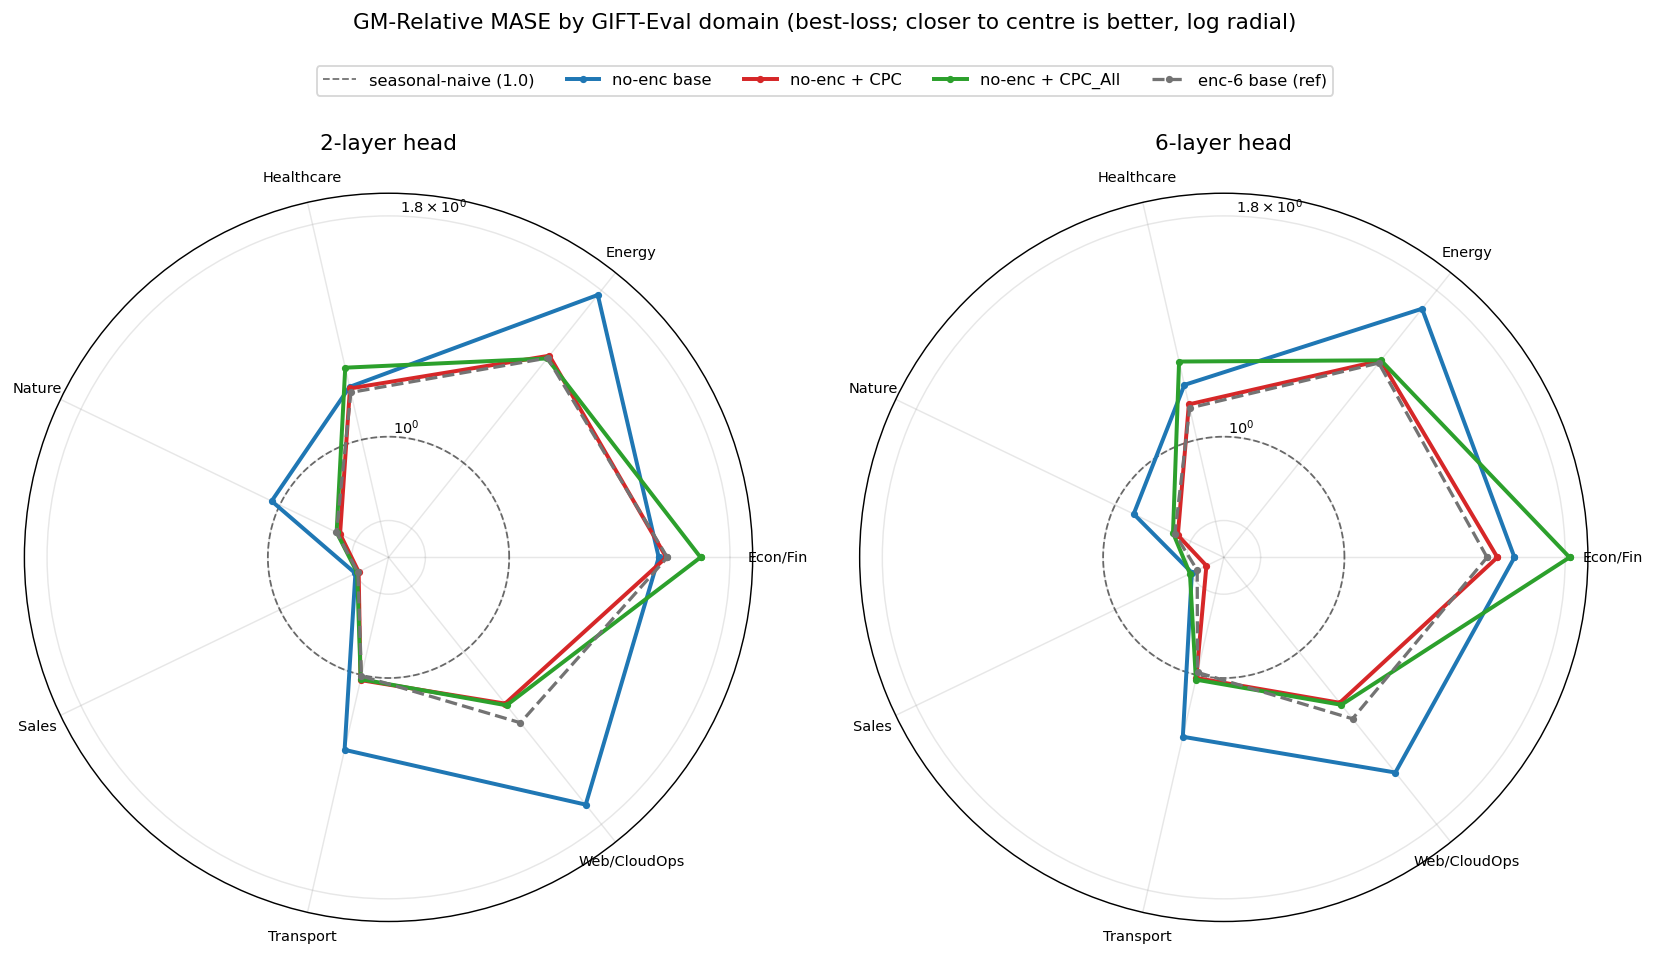
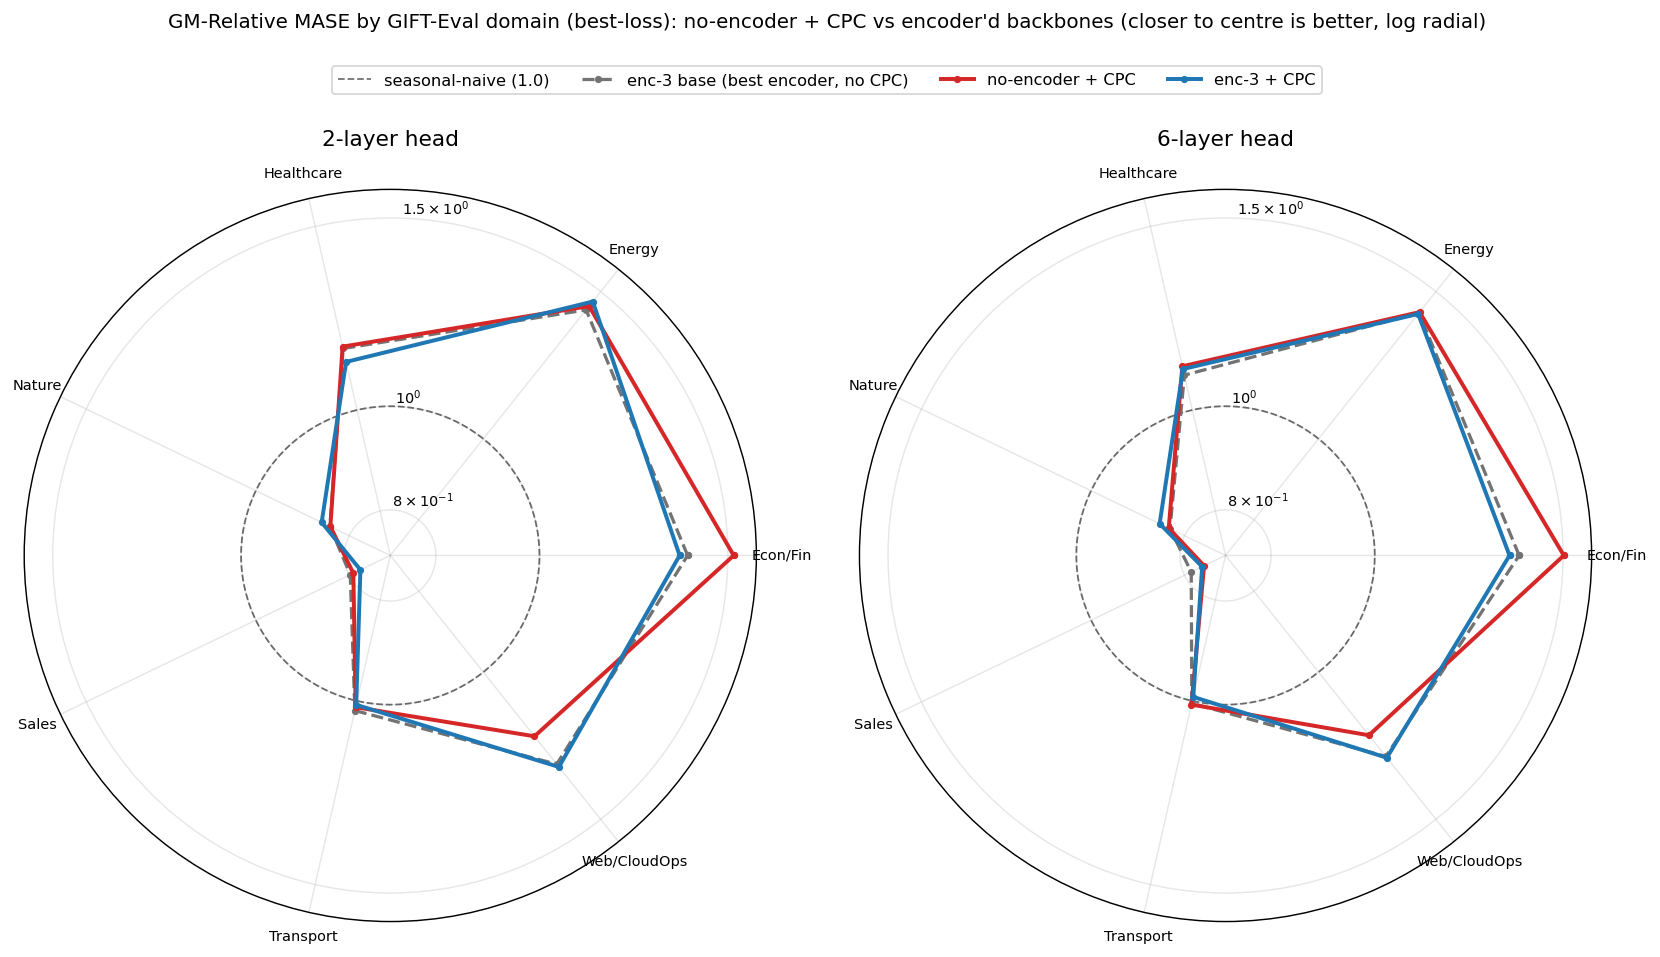
report(#348): radar = no-encoder + CPC vs encoder'd backbones (drop the very-bad no-enc base)
Per maintainer: the no-encoder base is far worse and skews the radar, so it is
off it. Radar now compares the no-encoder + CPC arm against the best plain
encoder (enc-3 base) and the encoder'd + CPC (enc-3 + CPC), with the
seasonal-naive ring. Caption/sentence updated: + CPC tracks both encoder'd
backbones, lagging in Econ/Fin and slightly ahead in Web/CloudOps.

diff --git a/experiments/2026-06-15_no_encoder_redo/scripts/plot_radar_noenc.py b/experiments/2026-06-15_no_encoder_redo/scripts/plot_radar_noenc.py
@@ -1,10 +1,11 @@
 #!/usr/bin/env python3
 """Per-domain forecast-error radar (house style): GM-Relative MASE by GIFT-Eval
-domain, both heads, best-loss checkpoint. Profiles: the three no-encoder losses
-(base / +CPC / +CPC_All) against the enc-6 base backbone (dashed reference) and
-the seasonal-naive ring (1.0). Closer to centre is better; log radial axis.
-Per-task relative error from each arm's summary.txt; dataset->domain from
-all_results.csv. Writes plots/perdomain_radar.png.
+domain, both heads, best-loss checkpoint. Profiles isolate the encoder vs CPC
+question: the best plain-encoder backbone (enc-3 base, dashed reference) against
+the no-encoder + CPC arm and the encoder'd + CPC arm (enc-3 + CPC), plus the
+seasonal-naive ring (1.0). Closer to centre is better; log radial axis. Per-task
+relative error from each arm's summary.txt; dataset->domain from all_results.csv.
+Writes plots/perdomain_radar.png.
 """
 import csv
 import math
@@ -18,15 +19,15 @@ from matplotlib.ticker import FixedLocator, NullLocator
 
 W = "/home/jupyter/workspaces/contrastive-forecasting/experiments"
 E348 = f"{W}/2026-06-15_no_encoder_redo/results"
-E341 = f"{W}/2026-06-11_stopgrad_capacity/results"
+E339 = f"{W}/2026-06-10_stopgrad_positive/results"
+E344 = f"{W}/2026-06-13_cpc_infonce_aux/results"
 OUT = os.path.join(os.path.dirname(__file__), "..", "plots", "perdomain_radar.png")
 DOMAINS = ["Econ/Fin", "Energy", "Healthcare", "Nature", "Sales", "Transport", "Web/CloudOps"]
 # (label, results_dir, tag, colour, linestyle)
 ARMS = [
-    ("no-enc base",      E348, "allt08_xftrip_nobn_noenc_sgpos_qk_aon_b1024_base",   "#1f77b4", "-"),
-    ("no-enc + CPC",     E348, "allt08_xftrip_nobn_noenc_sgpos_qk_aon_b1024_cpc",    "#d62728", "-"),
-    ("no-enc + CPC_All", E348, "allt08_xftrip_nobn_noenc_sgpos_qk_aon_b1024_cpcall", "#2ca02c", "-"),
-    ("enc-6 base (ref)", E341, "allt08_xftrip_nobn_enc6_sgpos_qk_aon_b1024",         "0.45",    "--"),
+    ("enc-3 base (best encoder, no CPC)", E339, "allt08_xftrip_nobn_enc3_sgpos_qk_aon_b1024",       "0.45",    "--"),
+    ("no-encoder + CPC",                  E348, "allt08_xftrip_nobn_noenc_sgpos_qk_aon_b1024_cpc",  "#d62728", "-"),
+    ("enc-3 + CPC",                       E344, "allt08_xftrip_nobn_enc3_sgpos_qk_aon_b1024_cpc",   "#1f77b4", "-"),
 ]
 
 
@@ -89,9 +90,9 @@ def main():
         ax.yaxis.set_minor_locator(NullLocator())
         ax.set_rlabel_position(88)
         ax.tick_params(labelsize=8)
-    fig.legend(handles[0], handles[1], loc="upper center", ncol=5, fontsize=9, bbox_to_anchor=(0.5, 0.97))
-    fig.suptitle("GM-Relative MASE by GIFT-Eval domain (best-loss; closer to centre is better, log radial)",
-                 fontsize=12, y=1.02)
+    fig.legend(handles[0], handles[1], loc="upper center", ncol=4, fontsize=9, bbox_to_anchor=(0.5, 0.97))
+    fig.suptitle("GM-Relative MASE by GIFT-Eval domain (best-loss): no-encoder + CPC vs encoder'd backbones "
+                 "(closer to centre is better, log radial)", fontsize=11, y=1.02)
     fig.tight_layout(rect=(0, 0, 1, 0.9))
     os.makedirs(os.path.dirname(OUT), exist_ok=True)
     fig.savefig(OUT, dpi=130, bbox_inches="tight")

diff --git a/experiments/2026-06-15_no_encoder_redo/no_encoder_redo.md b/experiments/2026-06-15_no_encoder_redo/no_encoder_redo.md
@@ -8,9 +8,9 @@ We remove the encoder stack (`--num-encoder-layers 0`) so the forecaster reads t
 
 Without the encoder the base loss has the highest error; either CPC term brings the no-encoder backbone level with the 3- and 6-layer encoder backbones. GM-Relative MASE is the geometric mean over the 97 tasks of model error / seasonal-naive error (lower is better; 1.0 = seasonal-naive).
 
-![Per-domain GM-Relative MASE (best-loss), both heads: the three no-encoder losses against the enc-6 baseline and the seasonal-naive ring; closer to centre is better, log radial](plots/perdomain_radar.png)
+![Per-domain GM-Relative MASE (best-loss), both heads: no-encoder + CPC against the best plain encoder (enc-3 base) and the encoder'd + CPC (enc-3 + CPC), with the seasonal-naive ring; closer to centre is better, log radial](plots/perdomain_radar.png)
 
-By domain, the no-encoder base's gap is concentrated in Energy, Transport, and Web/CloudOps (its outermost lobes), where either CPC term pulls in to the enc-6 baseline; + CPC_All is the worst arm in Econ/Fin.
+By domain, the no-encoder + CPC arm tracks both encoder'd backbones, lagging mainly in Econ/Fin and running slightly ahead in Web/CloudOps.
 
 ## Training curves
 
